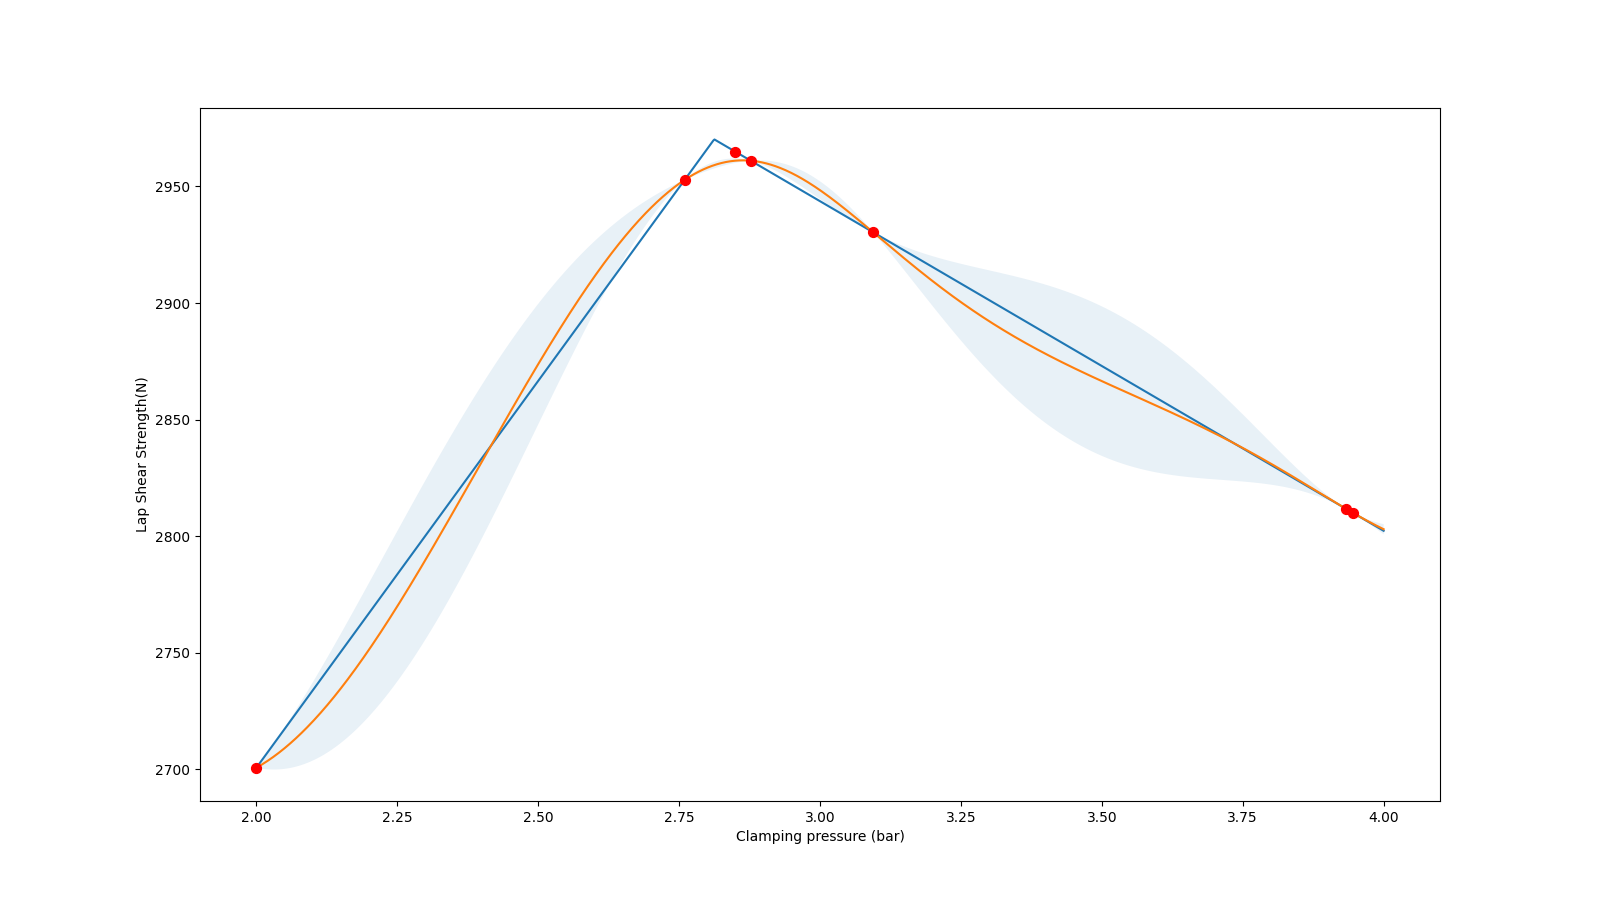
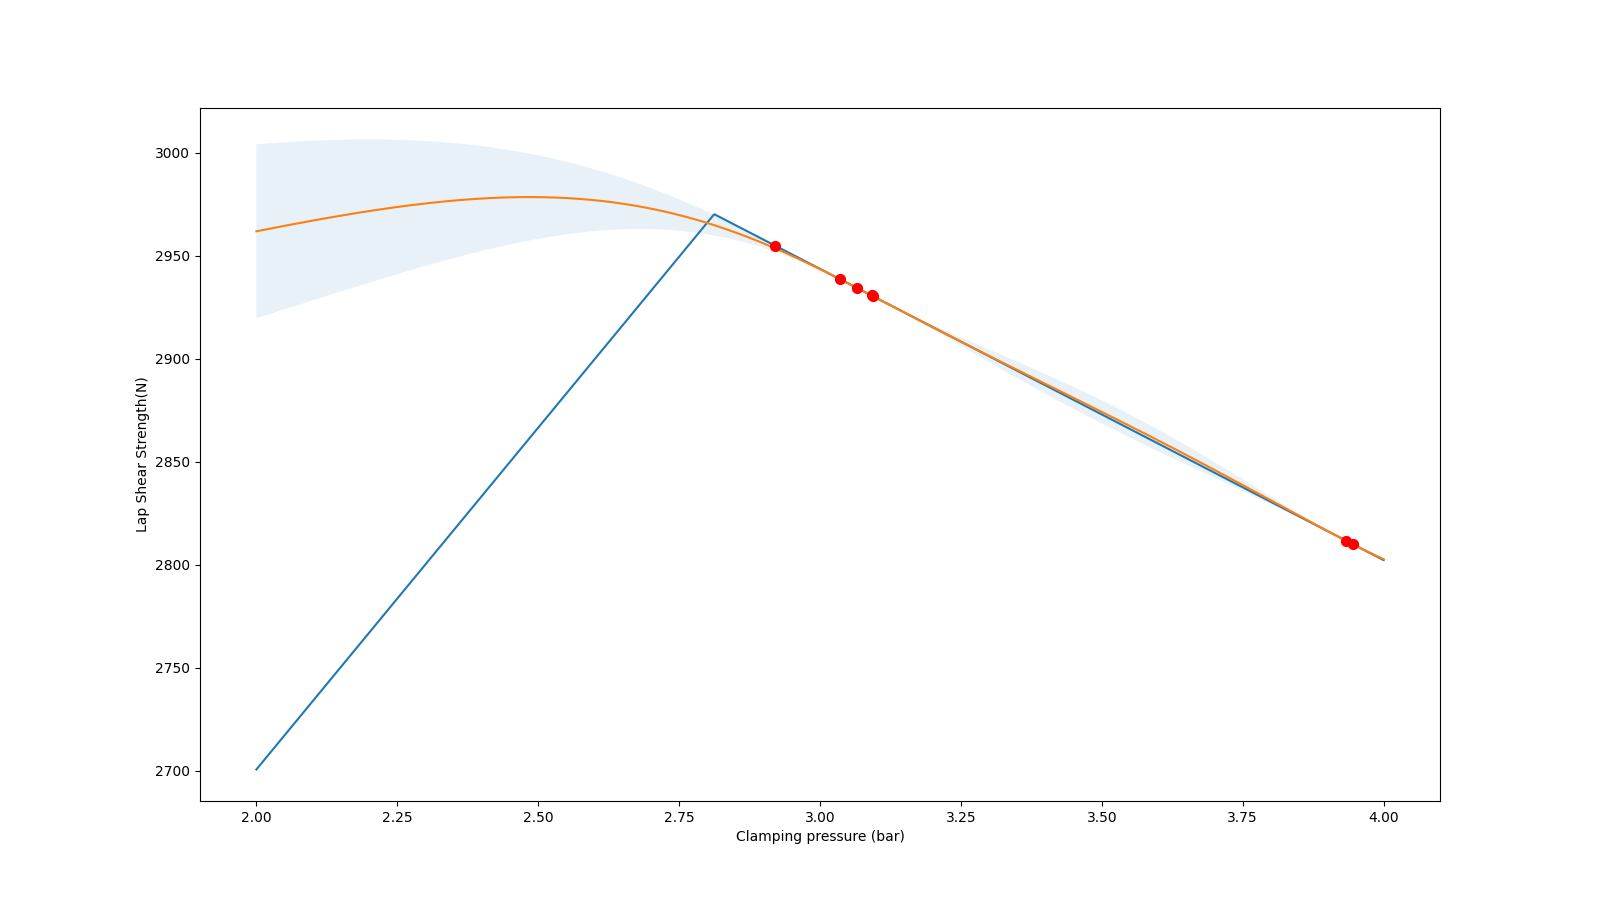
Plotting the functions

diff --git a/FL_test.py b/FL_test.py
@@ -56,7 +56,7 @@ def plot_bo(f, bo):
     plt.scatter(bo.space.params.flatten(), bo.space.target, c="red", s=50, zorder=10)
     plt.xlabel('Clamping pressure (bar)')
     plt.ylabel('Lap Shear Strength(N)')
-    plt.savefig(fname = 'POI')
+    plt.savefig(fname = input('Enter plot name: '))
     plt.show()
 
 #ucb
@@ -95,4 +95,4 @@ bo = BayesianOptimization(
 
 bo.maximize(n_iter=4, acq="poi", xi=0.0001, init_points = 3)
 
-#plot_bo(f, bo)
+plot_bo(f, bo)
